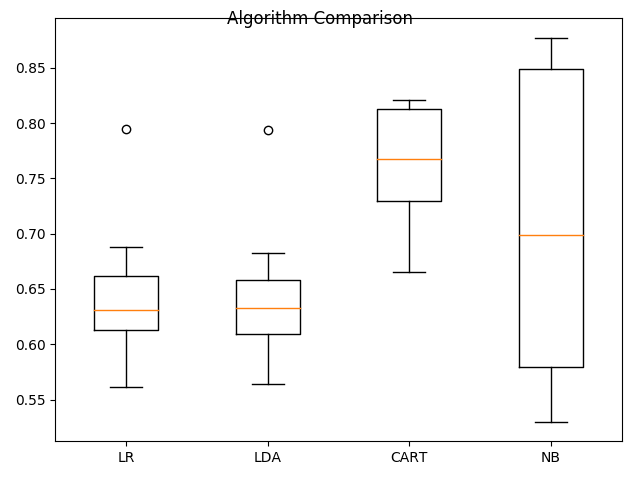
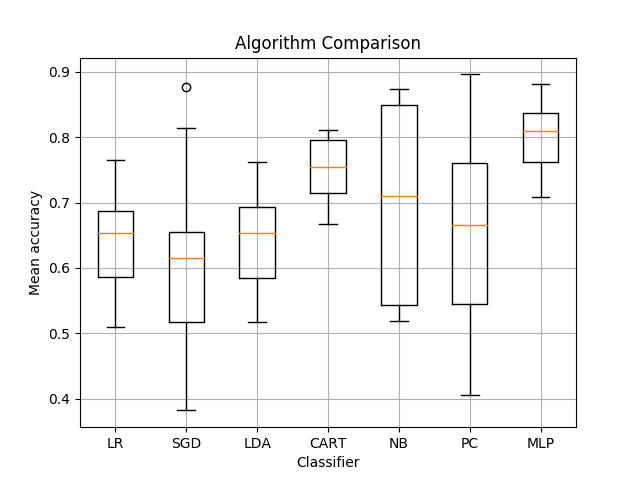
Extend algorithm comparison

diff --git a/Evaluation.py b/Evaluation.py
@@ -33,50 +33,11 @@ def run():
     runs = 1
     samples = 200
 
-    # evaluate_features(runs, samples)
+    #evaluate_features(runs, samples, clf_mfcc, scaler_mfcc)
 
     evaluate_muspeak_mirex_folder(clf_mfcc, scaler_mfcc)
 
-def evaluate_muspeak_mirex_folder(clf_mfcc, scaler_mfcc):
-
-    names = [
-        "ConscinciasParalelasN3-OsSentidosOSentirEAsNormasParte318-10-1994",
-        "ConscinciasParalelasN7-OsSentidosOSentirEAsNormasParte715-1-1994",
-        "ConscinciasParalelasN11-OEspelhoEOReflexoFantasiasEPerplexidadesParte413-12-1994",
-        "eatmycountry1609",
-        "theconcert2_v2",
-        "theconcert16",
-        "UTMA-26_v2"
-    ]
-
-    accuracy = 0
-    for name in names:
-        accuracy += evaluate_muspeak_mirex(ext_hdd_path + "data/test/muspeak-mirex2015-detection-examples/" + name + ".csv", name, clf_mfcc, scaler_mfcc)
-
-    print("Mean accuracy: ", accuracy / len(names))
-
-def evaluate_muspeak_mirex(csv_path, filename, clf, scaler):
-
-    print("Evaluating", filename)
-    if len(glob.glob("plots/speech_music_maps/" + filename + ".csv")) < 1:
-        Main.calc_from_file(csv_path[:-4] + ".mp3", filename, clf, scaler, is_mfcc=True, is_cfa=True)
-
-    truth = util.load_and_convert_muspeak_mirex_csv(csv_path)[:, 1]
-    estimation = util.load_speech_music_map_csv("plots/speech_music_maps/" + filename + ".csv")[:, 1]
-
-    if truth.shape[0] > estimation.shape[0]:
-        truth = truth[:estimation.shape[0]]
-    else:
-        estimation = estimation[:truth.shape[0]]
-
-    equal = np.sum(truth == estimation)
-    print(equal, "/", len(truth), " values are equal.")
-    print("That's a similarity of ", equal / len(truth), "%")
-    print()
-
-    return equal / len(truth)
-
-def evaluate_features(runs, samples):
+def evaluate_features(runs, samples, clf_mfcc, scaler_mfcc):
     for it in range(runs):
         data = []
         y_true = []
@@ -100,35 +61,16 @@ def evaluate_features(runs, samples):
             y_true.append(1)
 
         # print("Evaluating MFCC Feature...")
-        # evaluate_mfcc(data, y_true, clf_mfcc, scaler_mfcc, it)
+        evaluate_mfcc(data, y_true, clf_mfcc, scaler_mfcc, it)
 
-        print("Evaluating CFA Feature...")
-        # evaluate_cfa(data, y_true, thresholds=[1.2, 1.5, 1.8, 2.2, 2.4, 2.6, 3, 3.2, 3.4, 3.6, 3.8])
-        evaluate_cfa(data, y_true, thresholds=[3, 3.1, 3.2, 3.3, 3.4, 3.5], iteration=it)
-
-def pretty_print(confusion_matrix, classifier, iteration=0):
-    fig = plt.figure()
-    ax = fig.add_subplot(111)
-    cax = ax.matshow(confusion_matrix)
-    plt.title('Confusion matrix for ' + classifier)
-    fig.colorbar(cax)
-
-    # Show values in boxes
-    for (i, j), z in np.ndenumerate(confusion_matrix):
-        ax.text(j, i, '{:0.1f}'.format(z), ha='center', va='center')
-
-    lbls_str = ["Speech", "Music"]
-    ax.set_xticklabels([''] + lbls_str)
-    ax.set_yticklabels([''] + lbls_str)
-    plt.xlabel('Predicted')
-    plt.ylabel('True')
-    # plt.show()
-    plt.savefig(plots_path + classifier + '/cm_' + classifier + '_' + str(iteration) + '.png')
+        # print("Evaluating CFA Feature...")
+        # evaluate_cfa(data, y_true, thresholds=[3, 3.1, 3.2, 3.3, 3.4, 3.5], iteration=it)
 
 def evaluate_mfcc(x_tst, y_true, clf, scaler, iteration):
     y_mfccs = []
+    print("Evaluating MFCC feature...")
     for file in tqdm(x_tst):
-        # GRAD classification
+        # MFCC classification
         mfcc = MFCC.read_mfcc_from_file(file)
         result = MFCC.predict_nn(clf, scaler, mfcc)
         ones = np.count_nonzero(result)
@@ -152,7 +94,6 @@ def evaluate_mfcc(x_tst, y_true, clf, scaler, iteration):
     print(confusion_matrix)
     pretty_print(confusion_matrix, "MFCC", iteration)
     print("----------------------------------------------------------------- \n\n")
-
 
 def evaluate_cfa(x_tst, y_true, thresholds, iteration):
     y_cfas = []
@@ -188,6 +129,68 @@ def evaluate_cfa(x_tst, y_true, thresholds, iteration):
         print(confusion_matrix)
         pretty_print(confusion_matrix, "CFA", iteration)
         print("----------------------------------------------------------------- \n\n")
+
+def evaluate_muspeak_mirex_folder(clf_mfcc, scaler_mfcc):
+
+    names = [
+        "ConscinciasParalelasN3-OsSentidosOSentirEAsNormasParte318-10-1994",
+        "ConscinciasParalelasN7-OsSentidosOSentirEAsNormasParte715-1-1994",
+        "ConscinciasParalelasN11-OEspelhoEOReflexoFantasiasEPerplexidadesParte413-12-1994",
+        "eatmycountry1609",
+        "theconcert2_v2",
+        "theconcert16",
+        "UTMA-26_v2"
+    ]
+
+    accuracy = 0
+    for name in names:
+        accuracy += evaluate_muspeak_mirex(ext_hdd_path + "data/test/muspeak-mirex2015-detection-examples/" + name + ".csv", name, clf_mfcc, scaler_mfcc)
+
+    print("Mean accuracy: ", accuracy / len(names))
+
+def evaluate_muspeak_mirex(csv_path, filename, clf, scaler):
+
+    print("Evaluating", filename)
+    if len(glob.glob("plots/speech_music_maps/" + filename + ".csv")) < 1:
+        Main.calc_from_file(csv_path[:-4] + ".mp3", filename, clf, scaler, is_mfcc=True, is_cfa=True)
+
+    truth = util.load_and_convert_muspeak_mirex_csv(csv_path)[:, 1]
+    estimation = util.load_speech_music_map_csv("plots/speech_music_maps/" + filename + ".csv")[:, 1]
+
+    if truth.shape[0] > estimation.shape[0]:
+        truth = truth[:estimation.shape[0]]
+    else:
+        estimation = estimation[:truth.shape[0]]
+
+    # plot and save
+    x = np.arange(len(estimation)) / 2
+    util.plot_speech_music_map(filename, x, estimation)
+
+    equal = np.sum(truth == estimation)
+    print(equal, "/", len(truth), " values are equal.")
+    print("That's a similarity of ", equal / len(truth), "%")
+    print()
+
+    return equal / len(truth)
+
+def pretty_print(confusion_matrix, classifier, iteration=0):
+    fig = plt.figure()
+    ax = fig.add_subplot(111)
+    cax = ax.matshow(confusion_matrix)
+    plt.title('Confusion matrix for ' + classifier)
+    fig.colorbar(cax)
+
+    # Show values in boxes
+    for (i, j), z in np.ndenumerate(confusion_matrix):
+        ax.text(j, i, '{:0.1f}'.format(z), ha='center', va='center')
+
+    lbls_str = ["Speech", "Music"]
+    ax.set_xticklabels([''] + lbls_str)
+    ax.set_yticklabels([''] + lbls_str)
+    plt.xlabel('Predicted')
+    plt.ylabel('True')
+    # plt.show()
+    plt.savefig(plots_path + classifier + '/cm_' + classifier + '_' + str(iteration) + '.png')
 
 
 run()

diff --git a/AlgorithmComparison.py b/AlgorithmComparison.py
@@ -2,48 +2,61 @@
 import glob
 
 import joblib
+import numpy as np
 import matplotlib.pyplot as plt
 from sklearn import model_selection
 from sklearn.linear_model import LogisticRegression
 from sklearn.tree import DecisionTreeClassifier
-from sklearn.neighbors import KNeighborsClassifier
 from sklearn.discriminant_analysis import LinearDiscriminantAnalysis
 from sklearn.naive_bayes import GaussianNB
 from sklearn.linear_model import SGDClassifier
-from sklearn.svm import SVC
-import tqdm
+from sklearn.linear_model import Perceptron
+from sklearn.neural_network import MLPClassifier
 
-# load dataset
 import util
 
-X = joblib.load(util.ext_hdd_path + "data/mfcc_trn.joblib")
-Y = joblib.load(util.ext_hdd_path + "data/mfcc_lbls.joblib")
+# Load dataset
+from features import MFCC
 
-# prepare configuration for cross validation test harness
+if len(glob.glob(util.ext_hdd_path + "data/mfcc_trn_gtzan.joblib")) < 1:
+    X, Y = MFCC.calculate_mfccs(util.ext_hdd_path + "data/speech/gtzan", util.ext_hdd_path + "data/music/gtzan", max_duration=1800)
+    joblib.dump(X, util.ext_hdd_path + "data/mfcc_trn_gtzan.joblib")
+    joblib.dump(X, util.ext_hdd_path + "data/mfcc_lbls_gtzan.joblib")
+else:
+    X = joblib.load(util.ext_hdd_path + "data/mfcc_trn_gtzan.joblib")
+    Y = joblib.load(util.ext_hdd_path + "data/mfcc_lbls_gtzan.joblib")
+
+# Prepare configuration for cross validation test harness
 seed = 7
-# prepare models
+
+# Prepare models
 models = [
     ('LR', LogisticRegression()),
     ('SGD', SGDClassifier()),
     ('LDA', LinearDiscriminantAnalysis()),
     ('CART', DecisionTreeClassifier()),
-    ('NB', GaussianNB())
+    ('NB', GaussianNB()),
+    ('PC', Perceptron()),
+    ('MLP', MLPClassifier(hidden_layer_sizes=(16, 8), max_iter=5))
 ]
 
 names = []
 # evaluate each model in turn
+test_scores = []
 if len(glob.glob("alg_comparison.joblib")) < 1:
     results = []
     scoring = 'accuracy'
     for name, model in models:
         print("Processing model ", name)
         kfold = model_selection.KFold(n_splits=10, random_state=seed)
-        cv_results = model_selection.cross_val_score(model, X, Y, cv=kfold, scoring=scoring)
+        cv_results = model_selection.cross_validate(model, X, Y, cv=kfold, scoring=scoring)
         print("Processing done")
         results.append(cv_results)
+        current_score = cv_results["test_score"]
         names.append(name)
-        msg = "%s: %f (%f)" % (name, cv_results.mean(), cv_results.std())
+        msg = "%s: %f (%f)" % (name, current_score.mean(), current_score.std())
         print(msg)
+        test_scores.append(current_score)
 
     joblib.dump(results, "alg_comparison.joblib")
 
@@ -51,14 +64,25 @@ else:
     for name, model in models:
         names.append(name)
     results = joblib.load("alg_comparison.joblib")
+    for i in range(len(results)):
+        result = results[i]
+        current_score = result["test_score"]
+
+        print(names[i])
+        print("Average test score:", round(current_score.mean(), 2), "std: ", round(current_score.std(), 2))
+        print("Average fitting time (per set):", round(np.mean(result["fit_time"]), 2))
+        print("Average score time (per set):", round(np.mean(result["score_time"]), 2))
+        print()
+        test_scores.append(current_score)
+
 # boxplot algorithm comparison
 fig = plt.figure()
-fig.suptitle('Algorithm Comparison')
+plt.title('Algorithm Comparison')
 ax = fig.add_subplot(111)
-plt.boxplot(results)
+plt.grid(True)
+plt.boxplot(test_scores)
 ax.set_xticklabels(names)
-plt.xlabel("Classifiers")
+plt.xlabel("Classifier")
 plt.ylabel("Mean accuracy")
-plt.show()
-
-print(results)
+# plt.show()
+plt.savefig("alg_comparison.png")

diff --git a/Run.py b/Run.py
@@ -10,7 +10,7 @@ import radiorec
 import util
 from features import MFCC
 
-station = "oe1"
+station = "fm4"
 
 # Livestream or from file
 live_stream = False
@@ -28,18 +28,15 @@ def run():
     # Clear previous streams
     Main.clear_streams()
 
-    # persist classifiers if they do not exist
-    # MFCC
+    # Persist classifier if it does not exist
     if len(glob.glob("clf_mfcc.h5")) < 1:
         print("Saving model...")
-        # Tensorflow nn
-        clf_mfcc, scaler_mfcc = MFCC.train_mfcc_nn(util.ext_hdd_path + "data/speech/gtzan", util.ext_hdd_path + "data/music/gtzan", 20000, test=False)
+        clf_mfcc, scaler_mfcc = MFCC.train_mfcc_nn(util.ext_hdd_path + "data/speech", util.ext_hdd_path + "data/music", 20000, test=False)
         clf_mfcc.save('clf_mfcc.h5')
         joblib.dump(scaler_mfcc, "scaler_mfcc.joblib")
 
     else:
         print("Restoring models...")
-        # MFCC Tensorflow nn
         clf_mfcc = tf.keras.models.load_model('clf_mfcc.h5')
         scaler_mfcc = joblib.load("scaler_mfcc.joblib")
 

diff --git a/util.py b/util.py
@@ -51,14 +51,15 @@ def plot_speech_music_map(filename, x, speech_music_map):
     speech_music_map = np.array(speech_music_map)
     colors = np.where(speech_music_map > 0, "green", "blue")
     dot_size = 240 / len(speech_music_map)
-    plt.figure(figsize=(10, 2))
     plt.scatter(x, speech_music_map, c=colors, s=dot_size)
     plt.xlabel("Seconds")
     plt.ylabel("Class")
-    plt.yticks(ticks=[0,1],labels=["Speech", "Music"])
+    plt.title("Speech/music distribution for " + filename)
+    plt.yticks(ticks=[0, 1], labels=["Speech", "Music"])
+    plt.rcParams["figure.figsize"] = [16, 2]
     plt.grid()
-    plt.show()
-    #plt.savefig("plots/speech_music_maps/" + filename + ".png")
+    # plt.show()
+    plt.savefig("plots/speech_music_maps/" + filename + ".png")
 
     print("Saving CSV '" + filename + ".csv'")
     save_speech_music_map_csv([x, speech_music_map], "plots/speech_music_maps/", filename)

diff --git a/Main.py b/Main.py
@@ -22,13 +22,14 @@ cfa_threshold = 3.2
 def decide(results):
     mfcc = results["mfcc"][0] if "mfcc" in results else 0
     cfa_result = results["cfa"][0] if "cfa" in results else 0
+    divisor = 2 if "mfcc" in results and "cfa" in results else 1
     bias = 0
 
     # Add bias
     if mfcc > 0.5:
         bias += 0.2
 
-    final_result = (mfcc + cfa_result) / 2 + bias
+    final_result = (mfcc + cfa_result) / divisor + bias
 
     return final_result
 

diff --git a/AudioConverter.py b/AudioConverter.py
@@ -10,7 +10,7 @@ def mp3_to_16_khz_wav(src):
 
     sound = AudioSegment.from_mp3(src)
     sound = sound.set_channels(1).set_frame_rate(16000)
-    converted = src[:-3] + "wav"
+    converted = src[:-3] + "_16_kHz.wav"
     sound.export(converted, format="wav")
     return converted
 
